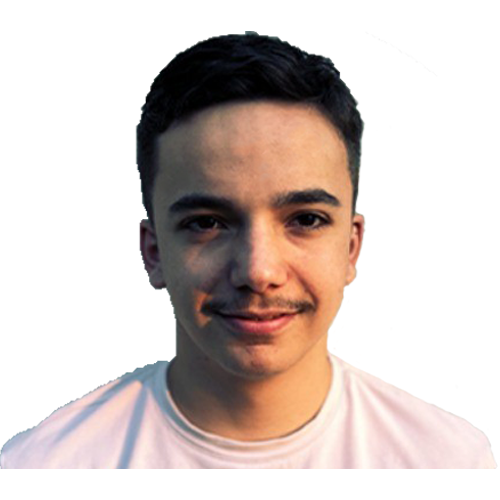
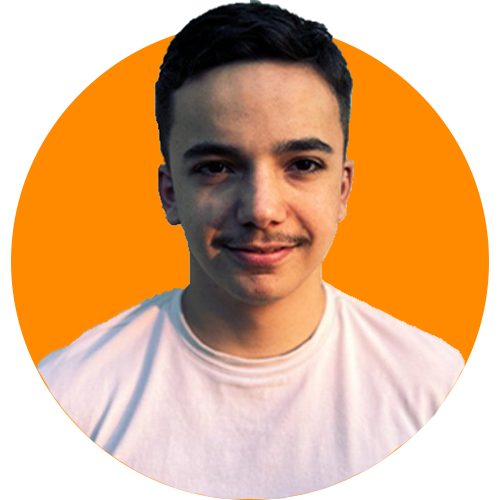
commit #12
modif photo & position

diff --git a/src/styles/styles.css b/src/styles/styles.css
@@ -91,5 +91,5 @@ main #home .home_texts p {
   font-size: 15px;
 }
 main #home #profile_photo {
-  width: 100vw;
+  width: 70vw;
 }/*# sourceMappingURL=styles.css.map */

diff --git a/src/styles/styles.sass b/src/styles/styles.sass
@@ -63,4 +63,4 @@ main
                 text-align: center
                 font-size: 15px
         #profile_photo
-            width: 100vw
+            width: 70vw
